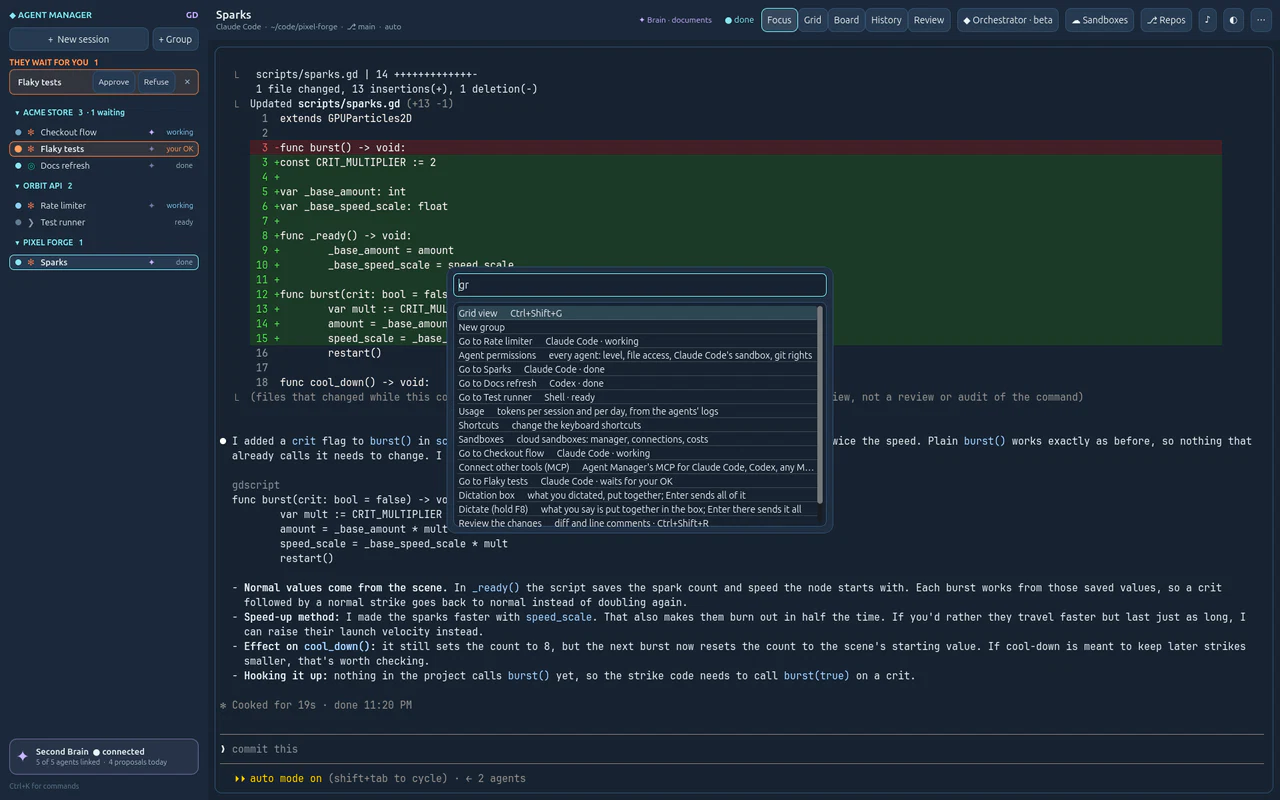
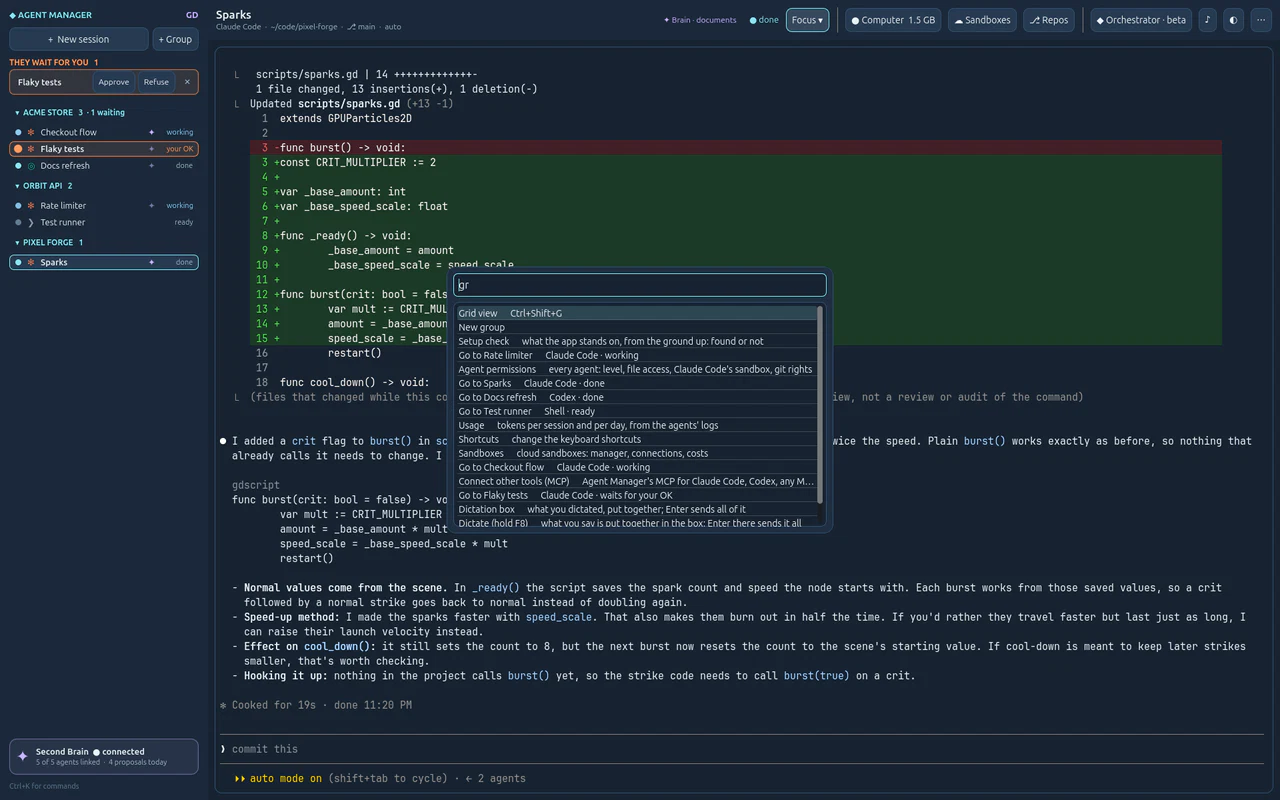
Loop 36: the top bar makes room: one « View » button, the managers beside it, and a WSL button that is alive
The owner: « Oui, arrange la barre en haut… si on fait du SSH Manager avec ça, du MCP Manager avec ça, on va mettre
des boutons en haut. Ça va vraiment être clean, ça va scaler. »

« View ▾ » replaces the five buttons Focus, Grid, Board, History, Review: it names the way the sessions are shown
and opens their list, each with its shortcut (unchanged). The managers stand beside it, one button each, from one
list in the code: the ground (« WSL », « Computer » on Linux), « ☁ Sandboxes », « ⎇ Repos ». A click opens a
manager's page; a second click comes back to the sessions as they were shown. In a narrow bar the managers show
their sign alone.

The WSL button is alive: ● all stands, ! something deserves a look, ✗ something is missing or the engine does not
answer; then the memory in use; its tooltip says why. For it the ground is read once a few seconds after the start,
aside, and the engine is asked every 30 seconds. It opens the page that was under ◐ › Setup check, now titled
« WSL », with the setup check and the engine room as its two parts.

Checked: 108 cases without a display (Linux and Windows Godot), the capture step « topbar », « setup », « typing »,
« hero », two guides. Not seen in the real Windows window. The website's pictures still show the old bar: they are
retaken once the owner has seen the new one; main is not to be pushed before.

Claude-Session: https://claude.ai/code/session_011X21YaGPg54jYcFs25zcRq

Changed region(s): [[0.3438, 0.4062, 0.6562, 0.6562], [0.5, 0.0, 0.9375, 0.0625]]

diff --git a/public/docs.html b/public/docs.html
@@ -111,8 +111,9 @@
           Godot 4.7 and run it. The app starts the engine itself.</p>
 
         <h2 id="setup-check">Setup check</h2>
-        <p><b>◐ › Setup check</b> (and on its own at the first launch when the engine cannot start) reads what Agent
-          Manager stands on, from the ground up, and says what it found. On Windows it starts with Windows itself (its
+        <p>The <b>WSL</b> button of the top bar (on Linux: <b>Computer</b>), or <b>◐ › Setup check</b>, opens one
+          page: the setup check, then the engine room. It opens on its own at the first launch when the engine
+          cannot start. The setup check reads what Agent Manager stands on, from the ground up, and says what it found. On Windows it starts with Windows itself (its
           version, and whether virtualization is on), then WSL, then the Linux distribution WSL runs. Then, on Windows
           and on Linux alike: python3 (3.10+), tmux, git, ssh, the engine, and the optional Claude Code, Codex and
           flyctl, each with its version and path, or the command to install it.</p>
@@ -216,12 +217,23 @@
         </ul>
 
         <h2 id="views">Views and themes</h2>
+        <p>The top bar has two families of buttons. <b>View ▾</b> names the way the sessions are shown (it reads
+          <b>Focus ▾</b>, <b>Grid ▾</b>…) and opens the list of the five ways: Focus, Grid, Board, History, Review,
+          each with its shortcut. Beside it stand the managers, one button each: <b>WSL</b> (on Linux:
+          <b>Computer</b>), <b>☁ Sandboxes</b>, <b>⎇ Repos</b>. A click opens a manager's page; a second click on the
+          same button comes back to the sessions as they were shown. In a narrow window the managers show their sign
+          alone, and their names stay in the tooltips.</p>
+        <p>The <b>WSL</b> button is alive: <b>●</b> when everything stands, <b>!</b> when something deserves a look (a
+          disk nearly full, memory nearly gone), <b>✗</b> when something the app needs is missing or the engine does
+          not answer; then the memory in use. Its tooltip says why. It opens the
+          <a href="#setup-check">setup check and the engine room</a>.</p>
         <ul>
           <li><b>Focus</b>: one session, full size, with its header (tool, folder, branch, Brain, state).</li>
           <li><b>Grid</b>: up to four live terminals side by side (right click a session → Show in grid).</li>
           <li><b>Board</b>: a tile per session with a live preview of its screen and its state.</li>
-          <li><b>History</b>, <b>Review</b>, <b>◆ Orchestrator · beta</b>, <b>☁ Sandboxes</b>, <b>⎇ Repos</b>, <b>♪</b>
-            (mutes the small sounds), and in <b>◐</b>: Keys, Usage, Shortcuts, Connect other tools, Setup check.</li>
+          <li><b>History</b> and <b>Review</b>, in the same <b>View ▾</b> list. Then <b>◆ Orchestrator · beta</b>,
+            <b>♪</b> (mutes the small sounds), and in <b>◐</b>: Keys, Usage, Shortcuts, Connect other tools, Setup
+            check.</li>
         </ul>
         <p><b>◐</b> picks one of seven themes, the same as Second Brain's: Focus, Terminal, Neon, Evening, Forest,
           Morning, Paper. The interface and the terminal's colours change together.</p>

diff --git a/public/howto.html b/public/howto.html
@@ -234,7 +234,7 @@
         <div class="note"><b>You need</b><ul><li>A session that changed files in a git repository</li></ul></div>
         <ol class="steps">
           <li>
-            <div class="step-text"><p class="do">Select the session and click <b>Review</b> (<kbd>Ctrl</kbd>+<kbd>Shift</kbd>+<kbd>R</kbd>).</p><p class="see">The files the agent changed since its branch started, with their added and removed lines, and the diff of the first file.</p></div>
+            <div class="step-text"><p class="do">Select the session, click <b>View ▾</b> at the top and choose <b>Review</b> (<kbd>Ctrl</kbd>+<kbd>Shift</kbd>+<kbd>R</kbd>).</p><p class="see">The files the agent changed since its branch started, with their added and removed lines, and the diff of the first file.</p></div>
             <figure class="shot"><img src="assets/howto/review/01.webp" width="1280" height="800" loading="lazy" alt="Review a diff and send comments, step 1 of 4: The files the agent changed since its branch started, with their added and removed lines, and the diff of the first file."></figure>
           </li>
           <li>
@@ -261,7 +261,7 @@
         
         <ol class="steps">
           <li>
-            <div class="step-text"><p class="do">Click <b>History</b> (<kbd>Ctrl</kbd>+<kbd>Shift</kbd>+<kbd>H</kbd>).</p><p class="see">Every session ever made, the archived ones too, with each conversation the agent had in it. Nothing is forgotten: removing a session keeps its conversations here.</p></div>
+            <div class="step-text"><p class="do">Click <b>View ▾</b> at the top and choose <b>History</b> (<kbd>Ctrl</kbd>+<kbd>Shift</kbd>+<kbd>H</kbd>).</p><p class="see">Every session ever made, the archived ones too, with each conversation the agent had in it. Nothing is forgotten: removing a session keeps its conversations here.</p></div>
             <figure class="shot"><img src="assets/howto/history/01.webp" width="1280" height="800" loading="lazy" alt="Resume, fork and find any conversation, step 1 of 4: Every session ever made, the archived ones too, with each conversation the agent had in it. Nothing is forgotten: removing a session keeps its conversations here."></figure>
           </li>
           <li>

diff --git a/public/index.html b/public/index.html
@@ -442,7 +442,7 @@
           <li><span class="when">Loop 33</span><b>No more small delays</b><span>Measured, then fixed: opening a session again went from 80 ms to 8.</span></li>
           <li><span class="when">Loop 34</span><b>The dictation box</b><span>What you say appears as you say it, stays in a box, and Enter sends all of it.</span></li>
           <li><span class="when">Loop 35</span><b>What you do shows at once</b><span>Groups and sessions move on screen before the engine has answered; a dictation is written once more, in one piece.</span></li>
-          <li><span class="when">Loop 36</span><b>The setup check, from the ground up</b><span>First steps: it reads Windows, WSL and the Linux distribution before the programs and the engine, says why the engine does not answer, installs the missing programs on your click in a terminal you see, and has an engine room, a dashboard of the ground: memory in use by session over the last hour to the last seven days, what each session weighs, the true room on the disk.</span></li>
+          <li><span class="when">Loop 36</span><b>The setup check, from the ground up</b><span>First steps: it reads Windows, WSL and the Linux distribution before the programs and the engine, says why the engine does not answer, installs the missing programs on your click in a terminal you see, and has an engine room, a dashboard of the ground: memory in use by session over the last hour to the last seven days, what each session weighs, the true room on the disk. The top bar makes room for more: one View button for the ways to look at the sessions, and one button per manager.</span></li>
         </ol>
       </div>
     </section>

diff --git a/tools/howto/guides.py b/tools/howto/guides.py
@@ -105,7 +105,7 @@ guide(
     "review", "Review a diff and send comments", "Work", 4,
     "Read what an agent changed, file by file, comment on lines, and send your comments to it in one go.",
     ["A session that changed files in a git repository"],
-    [(f"Select the session and click <b>Review</b> ({K('Ctrl', 'Shift', 'R')}).",
+    [(f"Select the session, click <b>View ▾</b> at the top and choose <b>Review</b> ({K('Ctrl', 'Shift', 'R')}).",
       "The files the agent changed since its branch started, with their added and removed lines, and the diff of "
       "the first file."),
      ("Click a file in the list.",
@@ -125,7 +125,7 @@ guide(
     "history", "Resume, fork and find any conversation", "Work", 4,
     "Find an old session in the History, pick up its conversation where it stopped, or try another way on a copy.",
     [],
-    [(f"Click <b>History</b> ({K('Ctrl', 'Shift', 'H')}).",
+    [(f"Click <b>View ▾</b> at the top and choose <b>History</b> ({K('Ctrl', 'Shift', 'H')}).",
       "Every session ever made, the archived ones too, with each conversation the agent had in it. Nothing is "
       "forgotten: removing a session keeps its conversations here."),
      ("Type in the search box: a name, a folder, a group or a conversation id.",

diff --git a/CHANGELOG.md b/CHANGELOG.md
@@ -6,6 +6,15 @@ Newest first.
 ## Unreleased: alpha
 
 ### The setup check reads from the ground up, and its engine room · Loop 36 (first steps)
+- The top bar is arranged for more to come. **View ▾** replaces the five buttons Focus, Grid, Board, History and
+  Review: it names the way the sessions are shown and opens the list of the five, each with its shortcut (the
+  shortcuts have not changed). Beside it stand the managers, one button each: **WSL** (on Linux: **Computer**),
+  **☁ Sandboxes**, **⎇ Repos**. A click opens a manager's page; a second click on it comes back to the sessions as
+  they were shown. In a narrow window the managers show their sign alone.
+- The **WSL** button is alive: **●** when everything stands, **!** when something deserves a look (a disk nearly
+  full), **✗** when something is missing or the engine does not answer, then the memory in use; its tooltip says
+  why. It opens the page that was only under ◐ › Setup check (still there too), now titled **WSL**. For it, the
+  ground is read once a few seconds after the app starts, aside, and the engine is asked every 30 seconds.
 - The **Engine room** is now a dashboard, under the Setup check. Five tiles say the moment: memory in use, sessions
   running, how busy the processors are, the room left on the disk, how long it has been up. Under them, **Memory in
   use, by session**: one bar per slice of time, one colour per session, over the last hour, 6 hours, 24 hours or

diff --git a/SECURITY.md b/SECURITY.md
@@ -27,7 +27,8 @@ Please do not open a public issue. Use GitHub's private vulnerability reporting 
   the orchestrator and its sessions are refused `git push`, `git merge` and `git rebase`; at most 4 run at once under
   one root session, 2 levels deep. An agent can only write to sessions it started, and never presses keys (approvals) for
   another session.
-- **What it reads of your system** (Setup check, Engine room): Windows' version and whether virtualization is on,
+- **What it reads of your system** (the WSL page: Setup check, Engine room; read when that page opens and once a
+  few seconds after the app starts, for the top bar's button): Windows' version and whether virtualization is on,
   WSL's version and distributions, the size and drive of a distribution's disk file, the lines of your `.wslconfig`
   that set limits, memory and disk figures. None of it is sent anywhere, and what Windows tells stays in the window.
   One thing is kept on your disk: every 30 seconds the engine writes down the memory in use, how busy the
